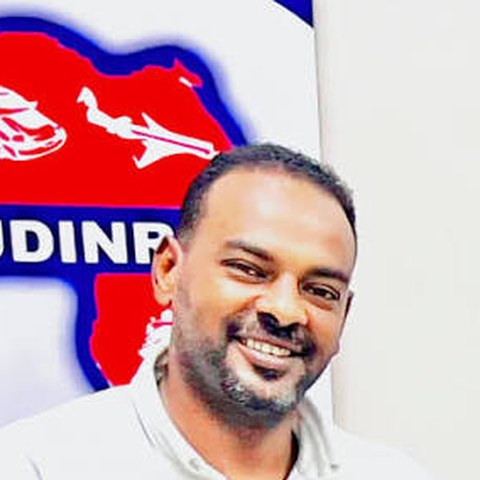
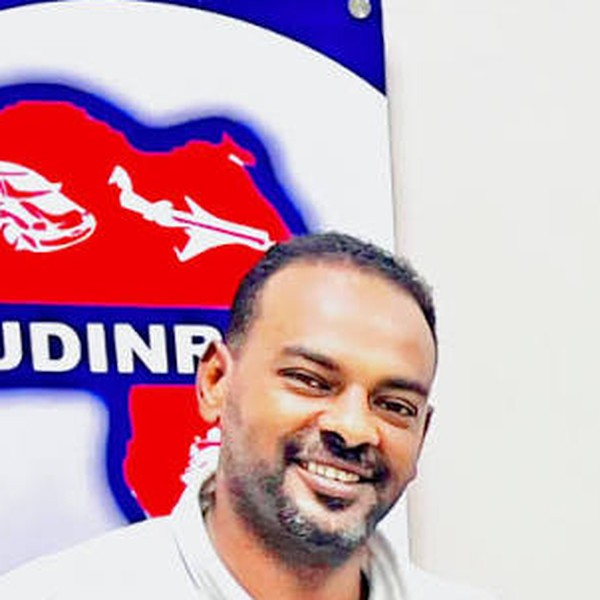
Photo above the header, larger circle, more headroom

diff --git a/rami/index.html b/rami/index.html
@@ -3,9 +3,9 @@
 <style>
 *{box-sizing:border-box;margin:0;padding:0} body{font-family:'Sora','IBM Plex Sans Arabic',sans-serif;background:#FAFAFB;color:#15151A;min-height:100vh;display:flex;align-items:center;justify-content:center;padding:24px}
 .c{width:100%;max-width:420px;background:#fff;border-radius:24px;overflow:hidden;box-shadow:0 12px 40px rgba(21,21,26,.10)}
-.top{background:linear-gradient(135deg,#D4202E,#6E080F);padding:36px 24px 64px;text-align:center;color:#fff;position:relative}
+.top{background:linear-gradient(135deg,#D4202E,#6E080F);padding:36px 24px 76px;text-align:center;color:#fff;position:relative}
 .top img.l{height:44px;background:#fff;border-radius:10px;padding:4px} .top .o{font-size:13px;opacity:.9;margin-top:10px}
-.ph{width:132px;height:132px;border-radius:50%;border:5px solid #fff;box-shadow:0 8px 24px rgba(0,0,0,.25);margin:-66px auto 0;display:block;object-fit:cover;background:#fff}
+.ph{position:relative;z-index:2;width:144px;height:144px;border-radius:50%;border:5px solid #fff;box-shadow:0 8px 24px rgba(0,0,0,.25);margin:-72px auto 0;display:block;object-fit:cover;object-position:center 30%;background:#fff}
 .n{text-align:center;padding:14px 24px 6px} .n h1{font-size:24px;font-weight:700} .n .en{font-family:'Sora';font-size:15px;color:#62626C;margin-top:2px}
 .n .t{display:inline-block;margin-top:10px;background:#FCEAEB;color:#9E0E18;font-weight:600;font-size:13px;padding:6px 12px;border-radius:999px}
 .list{padding:16px 20px 8px} a.i{display:flex;align-items:center;gap:12px;padding:12px 10px;border-radius:12px;text-decoration:none;color:#15151A;border:1px solid #EAEAEE;margin-bottom:8px}
